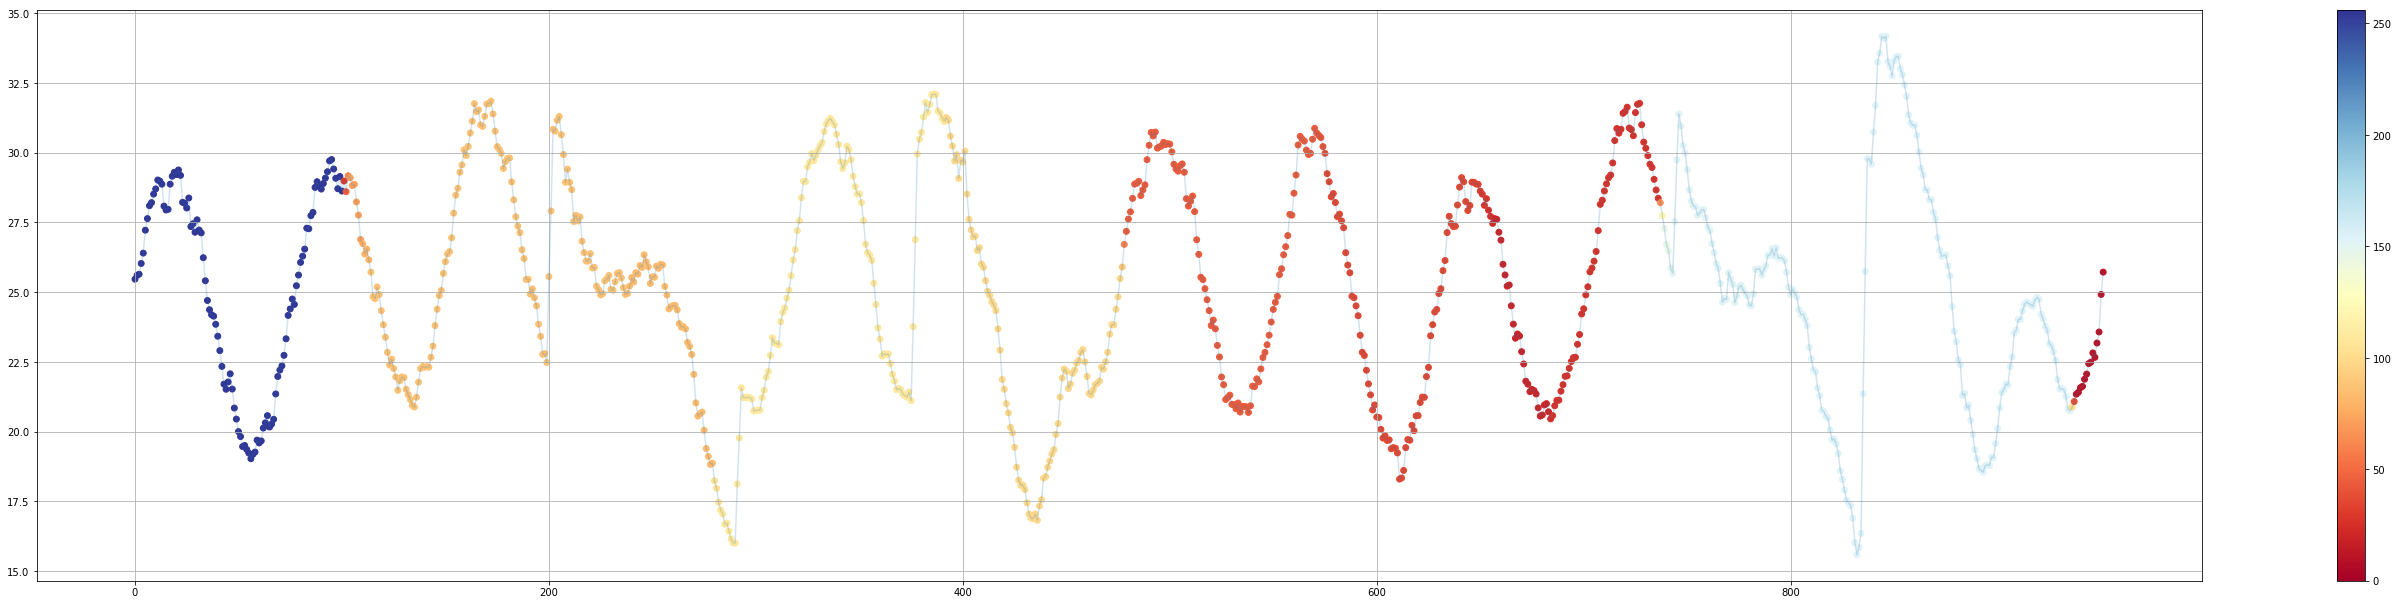
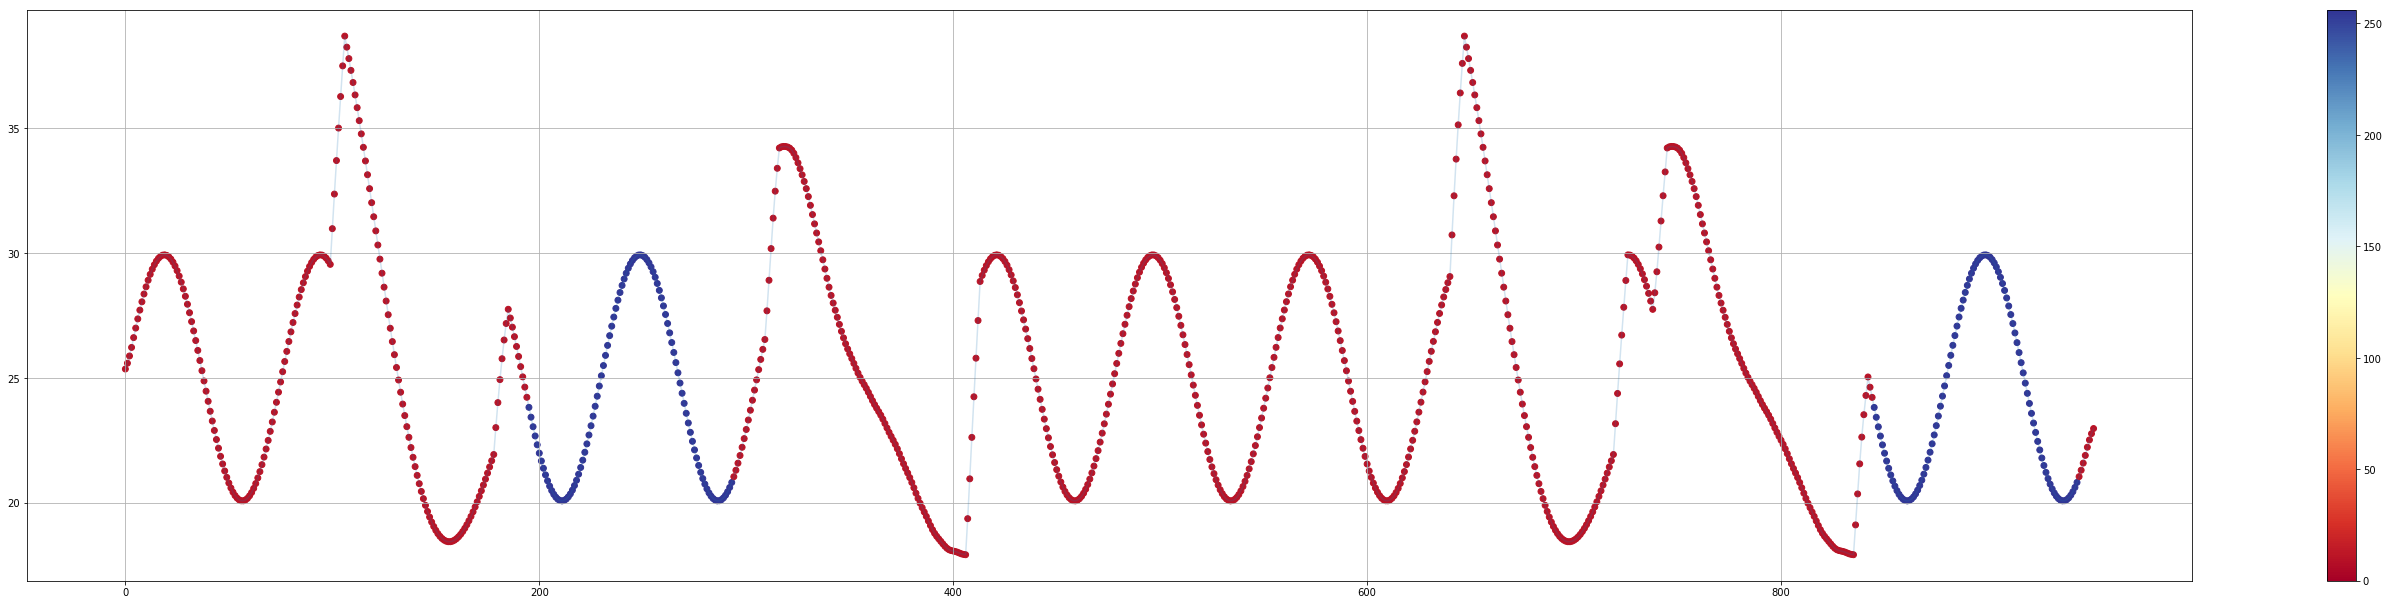
none

diff --git a/data_builder.py b/data_builder.py
@@ -8,6 +8,7 @@ import random
 import math
 import numpy as np
 from draw_pic import *
+import time
 
 class data_builder(object):
     def __init__(self,min_x_value,max_x_value,length,random_factor=0,commonfactor=1):
@@ -20,7 +21,7 @@ class data_builder(object):
         self.random_factor=random_factor
         self.common=commonfactor
         self.build_array()
-        self._build_random_array()
+        #self._build_random_array()
                    
             
         #
@@ -36,6 +37,7 @@ class data_builder(object):
         
         b=[(math.sin(i/12)+1)*k+self.min_x for i in a]
         self.xlist=b
+        self.randomlize_xlist=b
         #b is value in yaxis
         pass
     def _build_random_array(self,array=False,start=0,end=False,change_randomlize_array=True):
@@ -79,16 +81,17 @@ class data_builder(object):
         if change_randomlize_array==True:
             self.randomlize_xlist=temp_array
         return temp_array
-    def add_rare(self,complexity,length,position=[]):
+    def add_rare(self,complexity,length,posi_num=2):
         #complexity determind how long the rare array
         #length is how long rare sequence is
         #position is where rare sequence start in array
         #for some reasons we regard rare sequence which appear at least 2 times
         #    so 2 position needed
-        rarelength=100*self.common*random.uniform(0.8,1.3)
+        rarelength=length*self.common*random.uniform(0.8,1.3)
         rarelength=int(rarelength)
         min_std=0.37*math.sqrt(complexity)
         max_std=0.91*math.sqrt(complexity)
+        position=[]
         while True:
             rare_array=self.__form_rare(complexity,rarelength)
             if self._verify_rare_sequence(rare_array,min_std,max_std)==True:
@@ -104,9 +107,18 @@ class data_builder(object):
         
         #then add rare sequence in the randomlize array
         #    it need at least 2 position. if not mentioned above, create 2.
-        while len(position)<2:
-            position.append(random.randint(0,self.length))
-
+        #print ('check len of position:',position)
+        while len(position)<posi_num:
+            
+            randnumber=int(random.uniform(0,self.length)%(self.length-rarelength))
+            #print ('time seed', timeseed,'randnumber:',randnumber)
+            position.append(randnumber)
+            #dont know why it is always same
+            #add a seed of clock
+            #problem solved
+            #dont know why the default parametre can last in next time
+        
+        #print ('form rare position:',position)
 
 #        position.sort()
 #        detla_position=[]
@@ -119,6 +131,7 @@ class data_builder(object):
 
         #store the rare to list  with position information
         self.rare_list.append([position,rare_array])
+        position=[]
         # [0] is position the rare seq add in ,[1] is the seq
             
     def insert_rare_in_rlist(self):
@@ -137,13 +150,16 @@ class data_builder(object):
         #sort position and caculate the difference between each and its next element
         #    in order to make correctly insert 
         #    when finished an insert, the following index of insert position differ. 
-        sorted(position_lis,key=lambda pos_and_array:pos_and_array[0])
+        position_lis=sorted(position_lis,key=lambda pos_and_array:pos_and_array[0])
         detla_position=[]
         i=1
         detla_position.append(position_lis[0][0])
         while i<len(position_lis):
+            
             detla_position.append(position_lis[i][0]-position_lis[i-1][0])
             i=i+1
+        print ('pos list:',position_lis)
+        print ('detla list:',detla_position)
         i=0
         now=0
         for i in range(len(position_lis)):
@@ -151,7 +167,10 @@ class data_builder(object):
             #when splice ,the rare sequence 
             #randomlize the rare array
             rare_array=position_lis[i][1]
-            insert_rare_array=self._build_random_array(rare_array,0,len(rare_array),False)
+            
+            #insert_rare_array=self._build_random_array(rare_array,0,len(rare_array),False)
+            insert_rare_array=rare_array
+            
             self.randomlize_xlist[now:now]=insert_rare_array
             now=now+len(position_lis[i][1])
         pass        

diff --git a/digg.py b/digg.py
@@ -8,7 +8,7 @@ import bm_test
 import numpy as np
 import draw_pic
 import data_builder
-
+import math
 class bm_analyze(object):
     def __init__(self,minl,maxl,data_array):
         self.min_len=minl
@@ -123,18 +123,23 @@ class bm_analyze(object):
                     pattern_array=bm_test.BoyerMooreHorspool(sub_seq,self.data_sign)
                     
                     if(len(pattern_array))>1:
-                        print ('effective sub seq at:',i)
+                        print ('effective sub seq at:',i,'time',len(pattern_array))
                         
                     #[time(or key value) position]
                     self.sub_seq_information.append([self._value_sub_seq_in_rare(pattern_array,sub_seq),pattern_array,sub_len])
                     self.sub_dict[hash(tuple(sub_seq))]=True
         #search finished. then sort by value
-        sorted(self.sub_seq_information,key=lambda x:x[0])
+        self.sub_seq_information=sorted(self.sub_seq_information,key=lambda x:x[0])
         #normalize the value as value
+        
         color_value=[x[0] for x in self.sub_seq_information]
-        color_value=Z_ScoreNormalization(color_value,np.average(color_value),np.std(color_value))
-        color_value=[int(v*60) for v in color_value]
-        #print (color_value)
+        
+        #print ('bfcolorvalue',color_value)
+        #color_value=Z_ScoreNormalization(color_value,np.average(color_value),np.std(color_value))
+        max_v=max(color_value)
+        min_v=min(color_value)
+        color_value=[int(250*(v-min_v)/(max_v-min_v)) for v in color_value]
+        #print ('afcolorvalue',color_value)
         for i in range(len(self.sub_seq_information)):
             self.sub_seq_information[i][0]=color_value[i]
             
@@ -146,12 +151,17 @@ class bm_analyze(object):
         complexity=np.std(sub)
         leng=len(sub)
         appearence_t=len(pattern_array)
-        _value=complexity*leng/(appearence_t)
+        if appearence_t<2:
+            return 0
+        _value=leng*(appearence_t-1)
         return _value
     
-    def _fill_color_value(self):
-        self.color_value=[10 for x in self.dataseq]
-        for i in range(len(self.sub_seq_information)):
+    def _fill_color_value(self,match_number=6):
+        #strgory change: 1match,1color
+        
+        self.color_value=[]
+        for i in range(max(len(self.sub_seq_information),match_number)):
+            color_value_array=[10 for x in self.dataseq]
             value=self.sub_seq_information[i][0]
 #            if value < 0.75:
 #                continue
@@ -159,7 +169,9 @@ class bm_analyze(object):
             temp_len=self.sub_seq_information[i][2]
             for p in position:
                 for j in range(temp_len):
-                    self.color_value[p+j]=max(value,abs(self.color_value[p+j]))
+                    color_value_array[p+j]=max(value,color_value_array[p+j])
+            #self.color_value.append(color_value_array)
+            self.color_value=color_value_array
             
         pass
     pass
@@ -169,8 +181,8 @@ def Z_ScoreNormalization(x,mu,sigma):
 
 if __name__=='__main__':
     
-    b=data_builder.data_builder(20,30,600,0.025,1)
-    a=[x for x in range(600)]
+    b=data_builder.data_builder(20,30,1200,0.025,1)
+    a=[x for x in range(1200)]
     draw_pic.draw_pic( b.randomlize_xlist,False,a)
     
     b.add_rare(100,80)
@@ -183,5 +195,6 @@ if __name__=='__main__':
     draw_pic.draw_pic( b.randomlize_xlist,False,a)
     #print ('color value',c.color_value)
     
+    #for i in range(6):
     draw_pic.draw_pic(c.dataseq,c.color_value,a)
     pass
